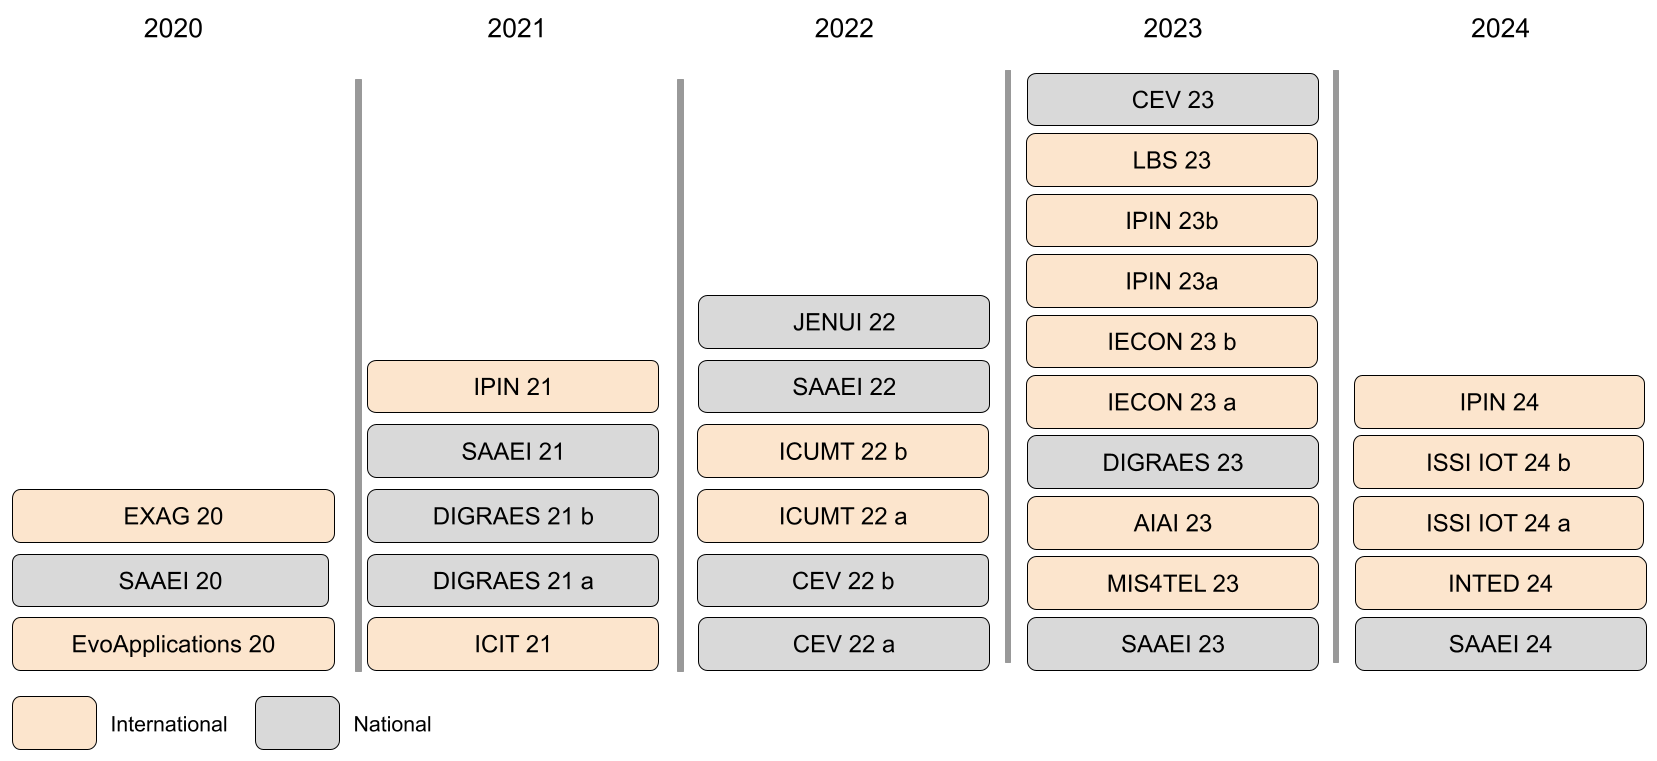
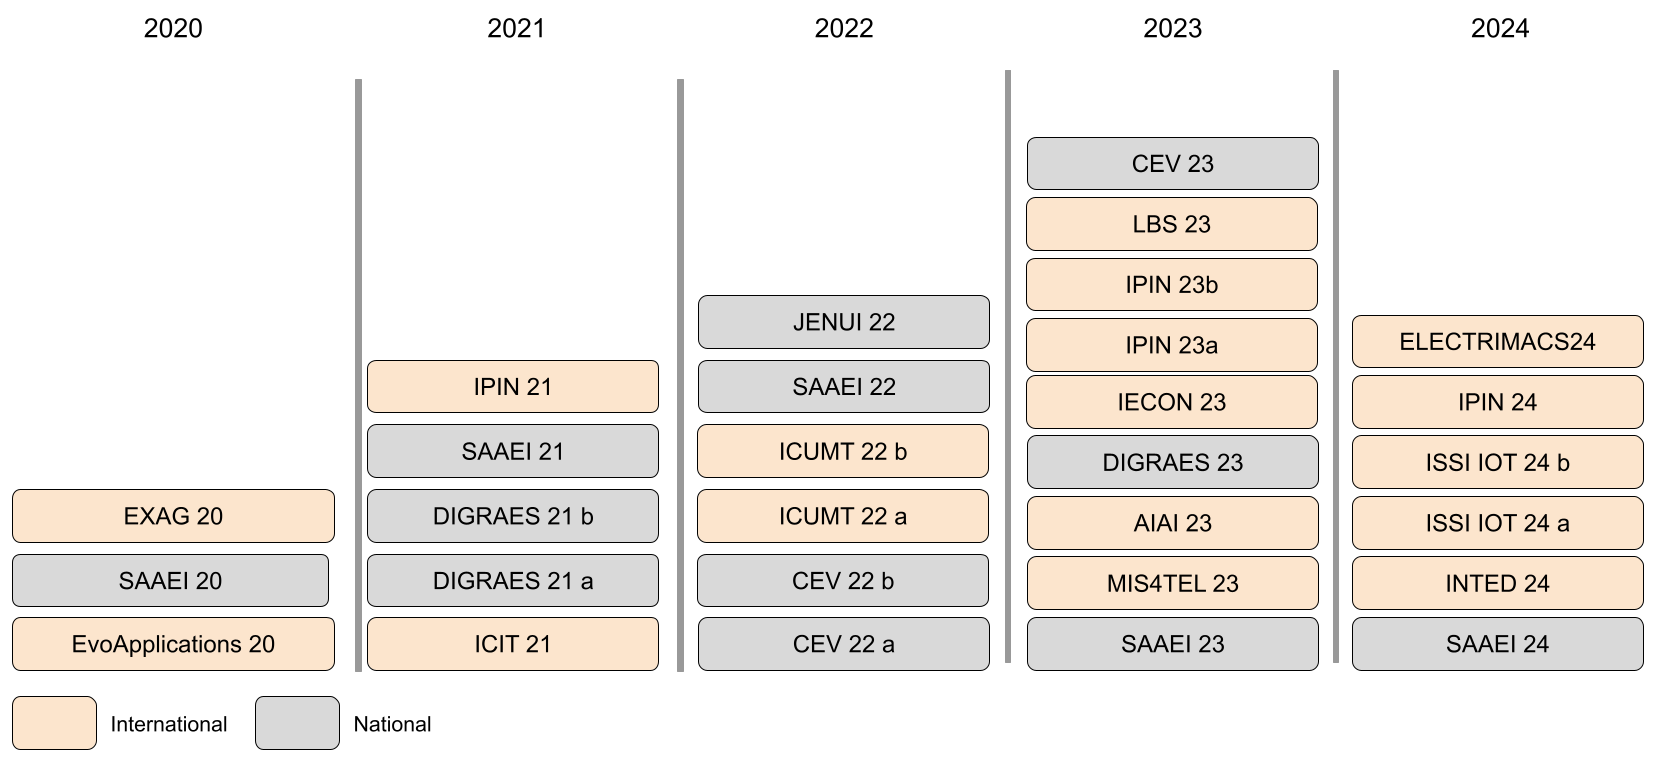
mas pubs

diff --git a/publications.html b/publications.html
@@ -168,6 +168,15 @@
 
 			<div class="row animate-box">
 				<div class="col-md-8 col-md-offset-2 text-center heading-section">
+				<p>Hector Beltran, Emilio Sansano, Javier Cardo Miota, Emilio Pérez
+				<b>Incremental Capacity Vs. Voltage Curves Efficacy to Diagnose State-Of-Health in Lithium-Ion Batteries with Machine Learning Algortihms </b>
+				40th International Conference on Modeling and Simulation of Electric Machines, Converters and Systems (ELECTRIMACS24).
+             	</p>
+				</div>
+			</div>	
+
+			<div class="row animate-box">
+				<div class="col-md-8 col-md-offset-2 text-center heading-section">
 				<h2>2023</h2>
 				</div>
 			</div>
@@ -213,14 +222,7 @@
 				</div>
 			</div>	
 
-			<div class="row animate-box">
-				<div class="col-md-8 col-md-offset-2 text-center heading-section">
-				<p>Hector Beltran, Emilio Sansano, Javier Cardo Miota, Emilio Pérez
-				<b>Incremental Capacity Vs. Voltage Curves Efficacy to Diagnose State-Of-Health in Lithium-Ion Batteries with Machine Learning Algortihms </b>
-				49th Annual Conference of the IEEE Industrial Electronics Society (IECON23)
-             	</p>
-				</div>
-			</div>	
+
 
 			<div class="row animate-box">
 				<div class="col-md-8 col-md-offset-2 text-center heading-section">
